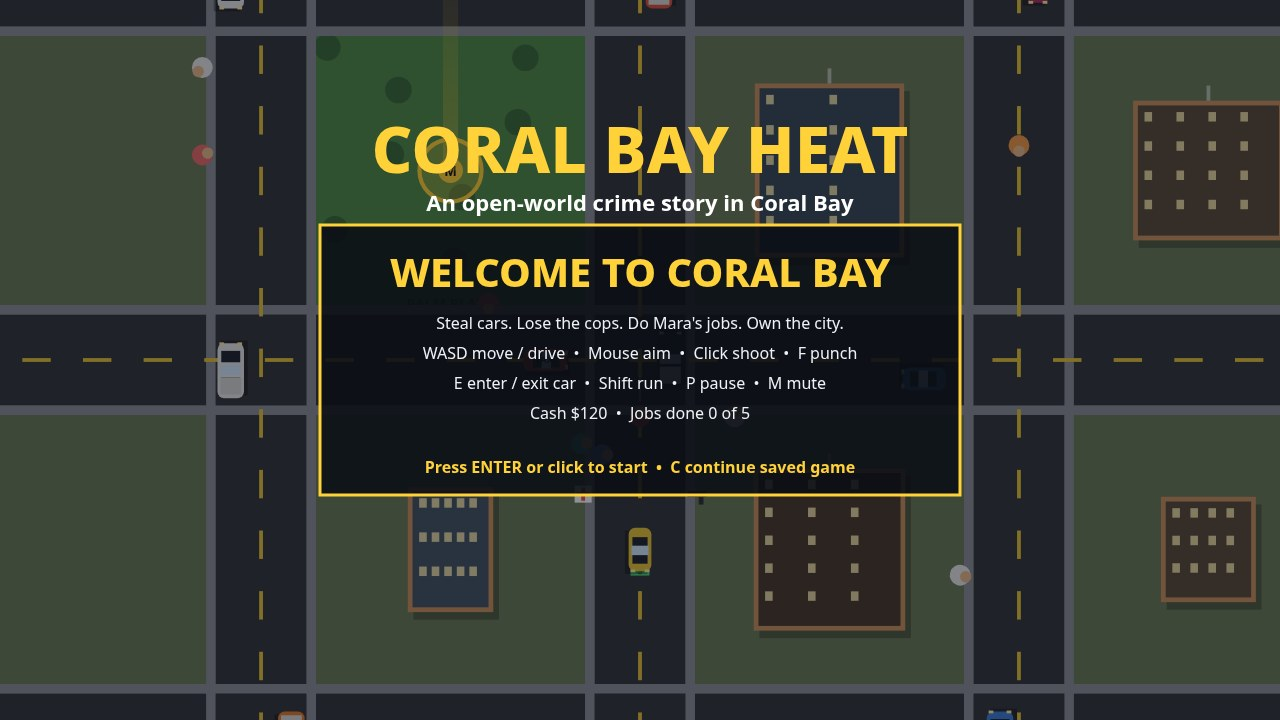
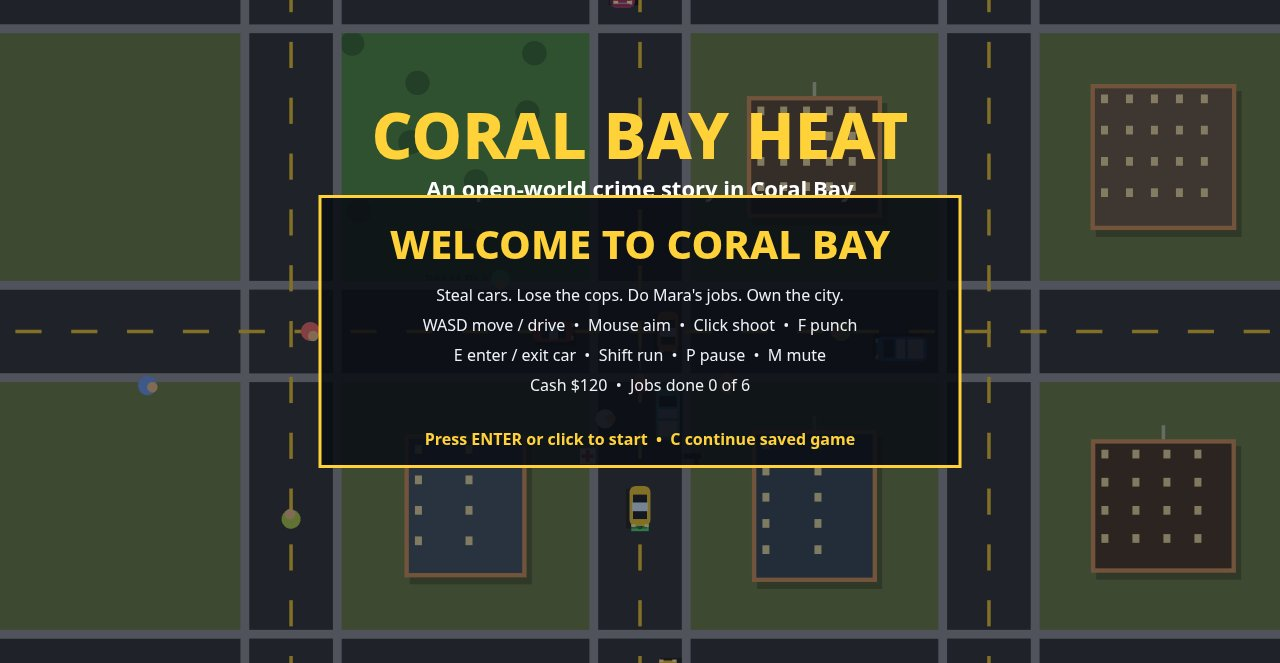
Fresh screenshots on seed 7; build summary log
Retake all four staged screenshots with the polished build (title,
drive, chase, mission) on a fresh city seed; each is a real render of
the game in headless Chromium, 1280x800 JPEG, 83-88 KiB. main.ts now
logs the screenshot list and dossier size after building, and serve.ts
sends a nosniff header.

diff --git a/main.ts b/main.ts
@@ -17,7 +17,7 @@
 // Outside the grader's container, MAKEFUN_OUTPUT_DIR stands in for /output:
 //   mkdir -p out && MAKEFUN_OUTPUT_DIR=out node main.ts
 
-import { cpSync, existsSync, mkdirSync, writeFileSync } from 'node:fs';
+import { cpSync, existsSync, mkdirSync, readdirSync, statSync, writeFileSync } from 'node:fs';
 import { join } from 'node:path';
 import { fileURLToPath } from 'node:url';
 import { buildDossier } from './vendor/makefun-game.ts';
@@ -44,3 +44,9 @@ writeFileSync(
     game_path_max_bytes: 1000,
   }),
 );
+
+// Say what was handed in, so a bad run (missing screenshots, empty game)
+// is obvious from the log instead of failing silently at the gate.
+const shots = readdirSync(join(out, 'screenshots')).filter((f) => !f.startsWith('.'));
+const dossierBytes = statSync(join(out, 'dossier.json')).size;
+console.log(`Coral Bay Heat: ${shots.length} screenshot(s) (${shots.join(', ')}), dossier ${dossierBytes} bytes -> ${out}`);

diff --git a/serve.ts b/serve.ts
@@ -65,8 +65,9 @@ createServer((request, response) => {
     'content-type': MIME[extname(file).toLowerCase()] ?? 'application/octet-stream',
     'content-length': size,
     'cache-control': 'no-store',
+    'x-content-type-options': 'nosniff',
   });
   createReadStream(file).pipe(response);
 }).listen(port, '127.0.0.1', () => {
-  console.log(`game/ is on http://localhost:${port}`);
+  console.log(`game/ is on http://localhost:${port} (index.html, no build step)`);
 });
